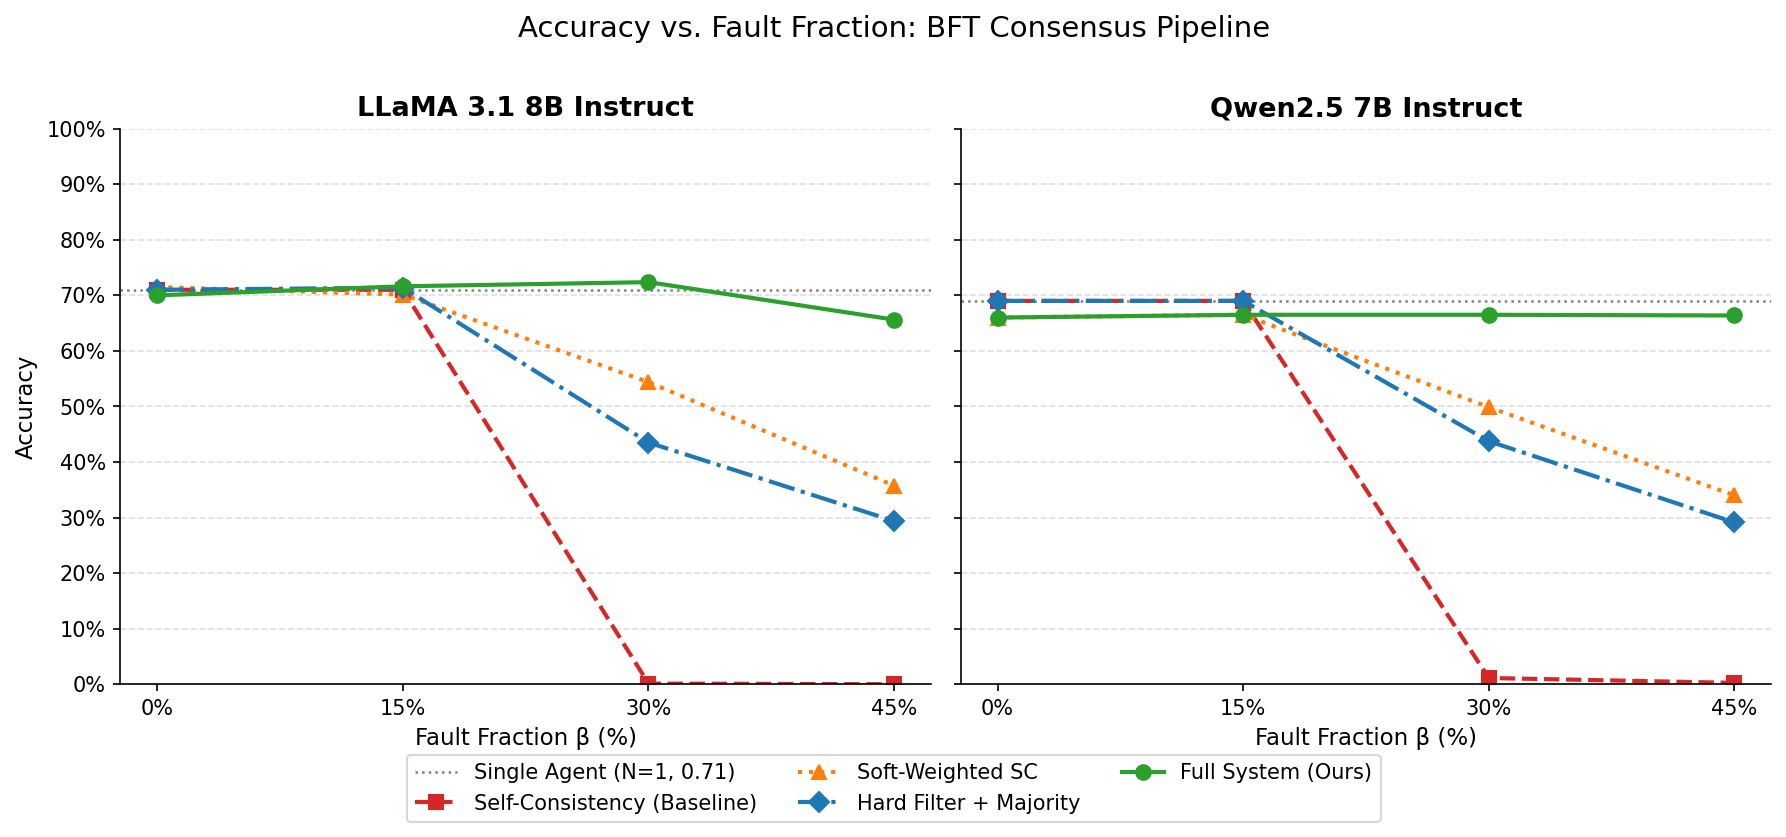
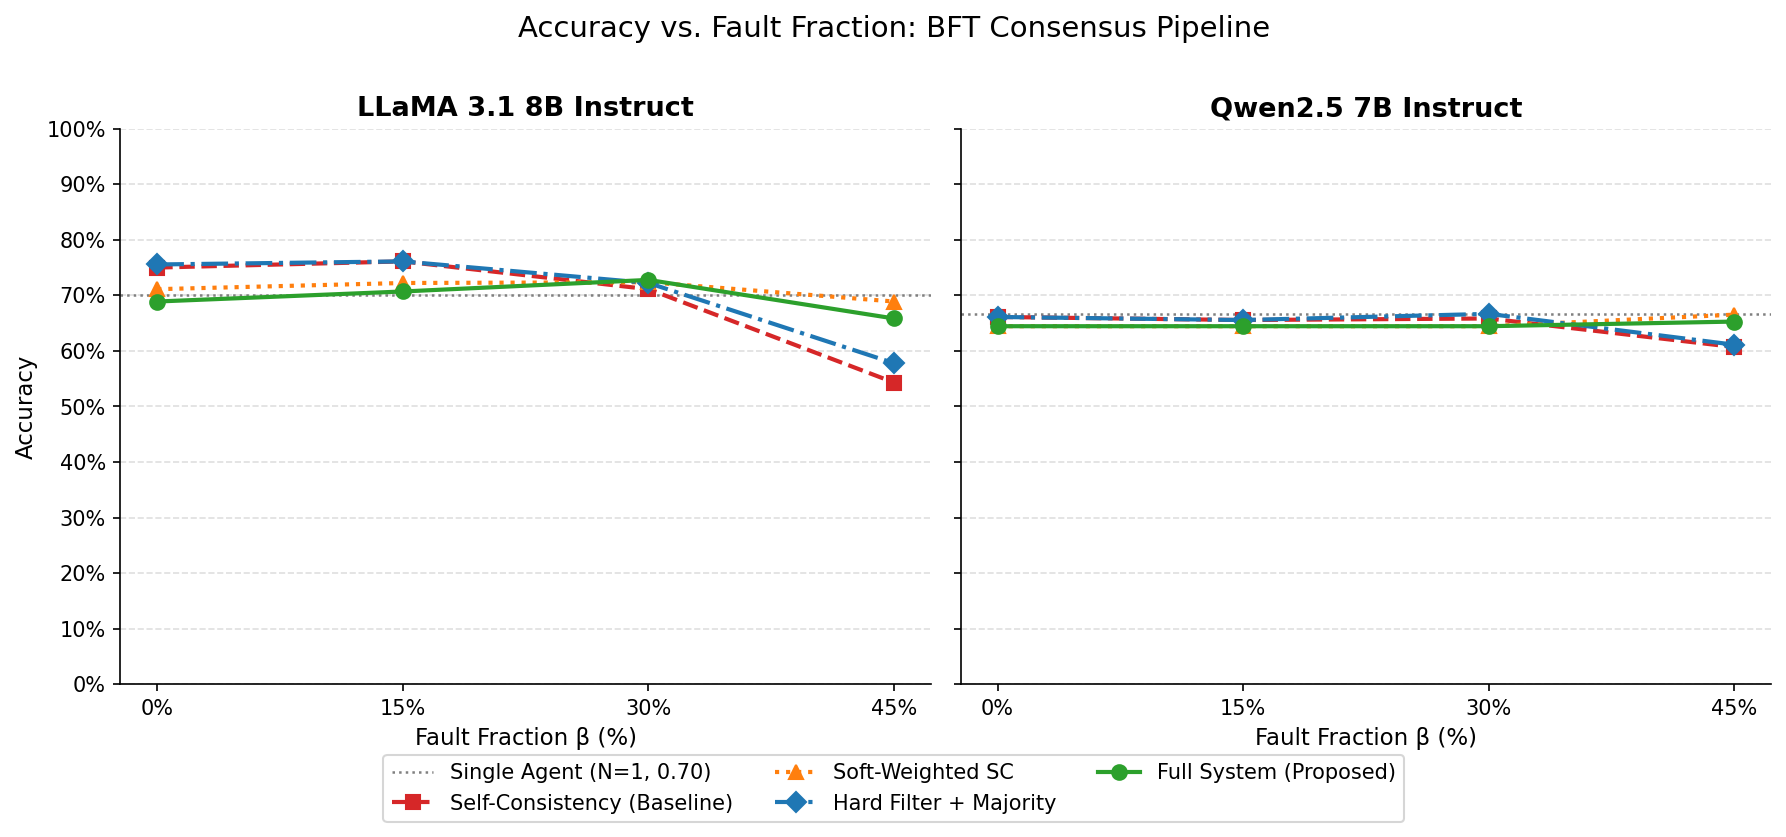
figures updated

diff --git a/scripts/plot_results.py b/scripts/plot_results.py
@@ -19,7 +19,7 @@ _CONDITION_LABELS = {
     "baseline": "Self-Consistency (Baseline)",
     "soft_weighting": "Soft-Weighted SC",
     "hard_only": "Hard Filter + Majority",
-    "full_system": "Full System (Ours)",
+    "full_system": "Full System (Proposed)",
 }
 _COLORS = {
     "baseline": "#d62728",
@@ -149,7 +149,7 @@ def plot_fault_type_breakdown(
 
         for offset, cond, color, label in [
             (-width / 2, "baseline", _COLORS["baseline"], "Self-Consistency (Majority Vote)"),
-            (width / 2, "full_system", _COLORS["full_system"], "Full System (Ours)"),
+            (width / 2, "full_system", _COLORS["full_system"], "Full System (Proposed)"),
         ]:
             y = []
             for ft in fault_types:
@@ -192,8 +192,8 @@ def plot_fault_type_breakdown(
 
 
 if __name__ == "__main__":
-    llama_csv = os.path.join(_RESULTS_DIR, "experiment_1_llama_answer_vote.csv")
-    qwen_csv = os.path.join(_RESULTS_DIR, "experiment_1_qwen_answer_vote.csv")
+    llama_csv = os.path.join(_RESULTS_DIR, "experiment_1_llama_shuffled.csv")
+    qwen_csv = os.path.join(_RESULTS_DIR, "experiment_1_qwen_shuffled.csv")
 
     # With single-agent reference line (supplementary / appendix)
     plot_accuracy_vs_beta(

diff --git a/docs/DESIGN_DOC.md b/docs/DESIGN_DOC.md
@@ -234,9 +234,14 @@ Generated with identical settings to LLaMA (`max_tokens=512` GSM8K, `max_tokens=
 
 **Interpretation:** Both models show the same qualitative story — `baseline` degrades under fault load while `full_system` remains stable — confirming the pipeline's robustness is model-agnostic. Qwen's flatter full_system curve makes it the stronger robustness demonstration; LLaMA's larger delta vs baseline at β=0.45 (+0.122 vs +0.047) makes it the stronger paper headline result.
 
-### 7.8 Figures (`figures/`) — PENDING REGENERATION
+### 7.8 Figures (`figures/`) ✅
 
-> **PENDING.** Figures have not yet been regenerated. Run `scripts/plot_results.py` pointed at `results/experiment_1_llama_shuffled.csv` and `results/experiment_1_qwen_shuffled.csv`.
+Figures regenerated (2026-05-06) from `*_shuffled.csv` files via `scripts/plot_results.py`.
+
+Three files in `figures/`:
+- `accuracy_vs_beta.png` — two-panel line chart with N=1 reference line (supplementary / appendix)
+- `accuracy_vs_beta_no_n1.png` — same chart without N=1 line (main paper body)
+- `fault_type_breakdown.png` — bar chart comparing baseline vs full_system at β=45%
 
 Two figures are generated by `scripts/plot_results.py` from the 192-row `*_shuffled.csv` files.
 
